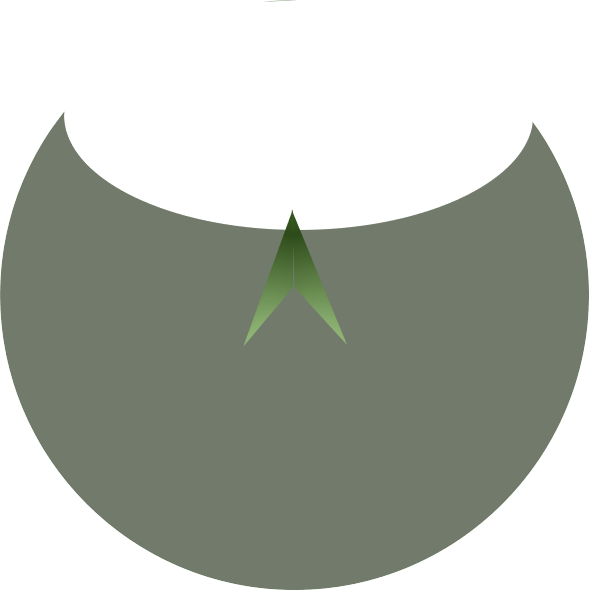
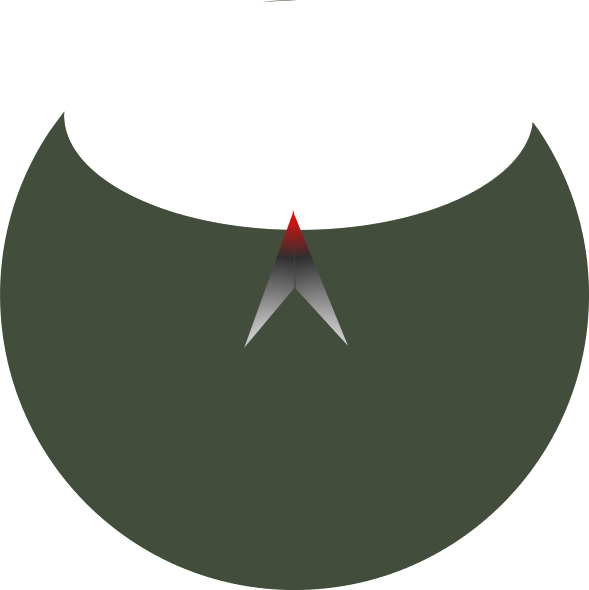
fix compass

diff --git a/selfdrive/ui/paint.cc b/selfdrive/ui/paint.cc
@@ -719,7 +719,7 @@ static void ui_draw_vision_event(UIState *s) {
     const int compass_y = (s->viz_rect.y + (bdr_s)) + 715;
     const int direction_x = compass_x + 74;
     const int direction_y = compass_y + 74;
-    ui_draw_circle_image(s, direction_x, direction_y - (bdr_s+7), 100, "direction", nvgRGBA(0x0, 0x0, 0x0, 0x0), 0.9f, -(s->scene.bearingUblox));
+    ui_draw_circle_image(s, direction_x, direction_y - (bdr_s+7), 100, "direction", nvgRGBA(0x0, 0x0, 0x0, 0x0), 1.0f, -(s->scene.bearingUblox));
     ui_draw_image(s, {compass_x, compass_y, 150, 150}, "compass", 1.0f);
   }
 
